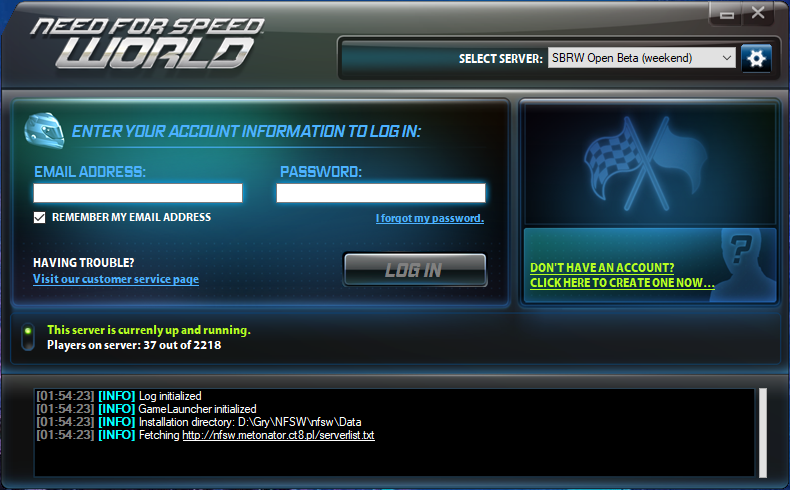
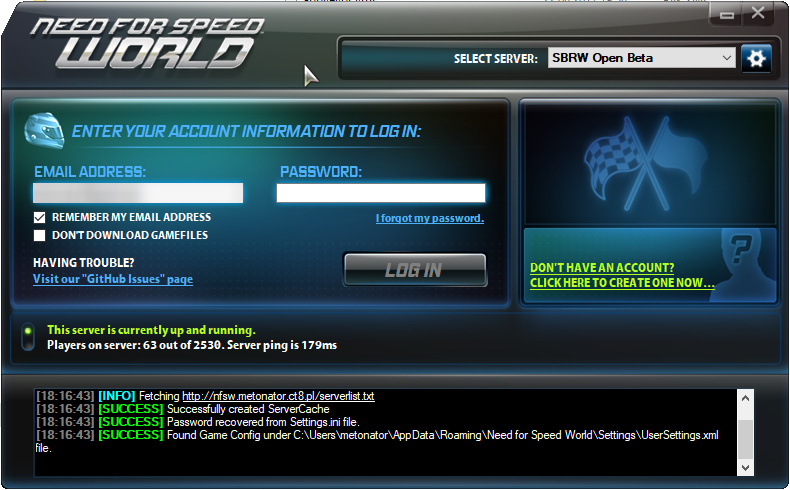
Fixed various JIT issues

diff --git a/GameLauncher/App/Form1.cs b/GameLauncher/App/Form1.cs
@@ -18,6 +18,7 @@ using Microsoft.WindowsAPICodePack.Dialogs;
 using Newtonsoft.Json;
 using SoapBox.JsonScheme;
 using GameLauncher.App.Classes.Events;
+using GameLauncherReborn;
 
 namespace GameLauncher {
     public partial class mainScreen : Form {
@@ -114,6 +115,8 @@ namespace GameLauncher {
                 int PosX = Int32.Parse(SettingFile.Read("LauncherPosX"));
                 int PosY = Int32.Parse(SettingFile.Read("LauncherPosY"));
                 Location = new Point(PosX, PosY);
+            } else {
+                Self.centerScreen(this);
             }
 
             MaximizeBox = false;
@@ -175,7 +178,7 @@ namespace GameLauncher {
                 File.WriteAllText(file, "test");
                 File.Delete(file);
             } catch {
-                MessageBox.Show(null, "Looks like we don't have enough permission to write config here. Please launch GameLauncher.exe as Administrator", "GameLauncher", MessageBoxButtons.OK, MessageBoxIcon.Error);
+                Self.runAsAdmin();
                 Environment.Exit(Environment.ExitCode);
             }
 
@@ -592,29 +595,33 @@ namespace GameLauncher {
             XmlNode LoginTokenNode;
             XmlNode UserIdNode;
 
-            DescriptionNode = SBRW_XML.SelectSingleNode("LoginStatusVO/Description");
-            LoginTokenNode = SBRW_XML.SelectSingleNode("LoginStatusVO/LoginToken");
-            UserIdNode = SBRW_XML.SelectSingleNode("LoginStatusVO/UserId");
+            try {
+                DescriptionNode = SBRW_XML.SelectSingleNode("LoginStatusVO/Description");
+                LoginTokenNode = SBRW_XML.SelectSingleNode("LoginStatusVO/LoginToken");
+                UserIdNode = SBRW_XML.SelectSingleNode("LoginStatusVO/UserId");
 
-            if(String.IsNullOrEmpty(DescriptionNode.InnerText)) {
-                UserId = UserIdNode.InnerText;
-                LoginToken = LoginTokenNode.InnerText;
+                if(String.IsNullOrEmpty(DescriptionNode.InnerText)) {
+                    UserId = UserIdNode.InnerText;
+                    LoginToken = LoginTokenNode.InnerText;
 
-                this.BackgroundImage = Properties.Resources.playbg;
-                this.currentWindowInfo.Visible = false;
+                    this.BackgroundImage = Properties.Resources.playbg;
+                    this.currentWindowInfo.Visible = false;
 
-                if (builtinserver == false) {
-                    playLoggedInAs.Text = "LOGGED IN AS " + email.Text.ToUpper();
+                    if (builtinserver == false) {
+                        playLoggedInAs.Text = "LOGGED IN AS " + email.Text.ToUpper();
+                    } else {
+                        playLoggedInAs.Text = "LOGGED IN AS LOCALHOST";
+                    }
+
+                    LoginFormElements(false);
+                    DownloadFormElements(true);
+
+                    launchNFSW();
                 } else {
-                    playLoggedInAs.Text = "LOGGED IN AS LOCALHOST";
+                     ConsoleLog("Invalid username or password.", "error");
                 }
-
-                LoginFormElements(false);
-                DownloadFormElements(true);
-
-                launchNFSW();
-            } else {
-                 ConsoleLog("Invalid username or password.", "error");
+            } catch {
+                ConsoleLog("Failed to get token from server, probably is offline.", "error");
             }
         }
 
@@ -1131,7 +1138,12 @@ namespace GameLauncher {
             }
 
             this.playButton.Image = Properties.Resources.playButton_enable;
-            LaunchGame(UserId, LoginToken, serverIP);
+
+            try {
+                LaunchGame(UserId, LoginToken, serverIP);
+            } catch {
+                MessageBox.Show("Failed to launch game. Cannot find NFSW.exe");
+            }
 
             if (builtinserver == true) {
                 this.playProgressText.Text = "SOAPBOX SERVER LAUNCHED. WAITING FOR QUERIES";
@@ -1430,13 +1442,17 @@ namespace GameLauncher {
             XmlNode LoginTokenNode;
             XmlNode UserIdNode;
 
-            DescriptionNode = SBRW_XML.SelectSingleNode("LoginStatusVO/Description");
-            LoginTokenNode = SBRW_XML.SelectSingleNode("LoginStatusVO/LoginToken");
-            UserIdNode = SBRW_XML.SelectSingleNode("LoginStatusVO/UserId");
+            try {
+                DescriptionNode = SBRW_XML.SelectSingleNode("LoginStatusVO/Description");
+                LoginTokenNode = SBRW_XML.SelectSingleNode("LoginStatusVO/LoginToken");
+                UserIdNode = SBRW_XML.SelectSingleNode("LoginStatusVO/UserId");
 
-            if (String.IsNullOrEmpty(DescriptionNode.InnerText)) {
-                UserId = UserIdNode.InnerText;
-                LoginToken = LoginTokenNode.InnerText;
+                if (String.IsNullOrEmpty(DescriptionNode.InnerText)) {
+                    UserId = UserIdNode.InnerText;
+                    LoginToken = LoginTokenNode.InnerText;
+                }
+            } catch {
+                MessageBox.Show("Failed to update token, server is probably offline.");
             }
         }
 

diff --git a/GameLauncher/App/Classes/Self.cs b/GameLauncher/App/Classes/Self.cs
@@ -1,0 +1,34 @@
+using System;
+using System.Collections.Generic;
+using System.Diagnostics;
+using System.Text;
+using System.Windows.Forms;
+
+namespace GameLauncherReborn {
+    class Self {
+        public static void runAsAdmin() {
+            string[] args = Environment.GetCommandLineArgs();
+
+            ProcessStartInfo processStartInfo = new ProcessStartInfo() {
+                Verb = "runas",
+                FileName = Application.ExecutablePath
+            };
+
+            if ((int)args.Length > 0) {
+                processStartInfo.Arguments = args[0];
+            }
+
+            try {
+                Process.Start(processStartInfo);
+            } catch (Exception exception1) {
+                MessageBox.Show("Failed to self-run as admin: " + exception1);
+            }
+        }
+
+        public static void centerScreen(Form form) {
+            form.StartPosition = FormStartPosition.Manual;
+            form.Top = (Screen.PrimaryScreen.Bounds.Height - form.Height) / 2;
+            form.Left = (Screen.PrimaryScreen.Bounds.Width - form.Width) / 2;
+        }
+    }
+}

diff --git a/GameLauncher/Properties/AssemblyInfo.cs b/GameLauncher/Properties/AssemblyInfo.cs
@@ -8,7 +8,7 @@ using System.Runtime.InteropServices;
 [assembly: AssemblyTitle("GameLauncher")]
 [assembly: AssemblyDescription("GameLauncher for Need For Speed(TM): World")]
 [assembly: AssemblyConfiguration("")]
-[assembly: AssemblyCompany("")]
+[assembly: AssemblyCompany("MeTonaTOR")]
 [assembly: AssemblyProduct("GameLauncher")]
 [assembly: AssemblyCopyright("OpenSource")]
 [assembly: AssemblyTrademark("")]
@@ -32,5 +32,5 @@ using System.Runtime.InteropServices;
 // Możesz określić wszystkie wartości lub użyć domyślnych numerów kompilacji i poprawki
 // przy użyciu symbolu „*”, tak jak pokazano poniżej:
 // [assembly: AssemblyVersion("1.0.*")]
-[assembly: AssemblyVersion("1.0.0.142")]
-[assembly: AssemblyFileVersion("1.0.0.142")]
+[assembly: AssemblyVersion("1.0.0.143")]
+[assembly: AssemblyFileVersion("1.0.0.143")]

diff --git a/README.md b/README.md
@@ -2,9 +2,9 @@
 A Rewrite of GameLauncher taken from Need For Speed: World
 
 ## Todo
-- [ ] Downloader?
+- [X] Downloader?
 - [ ] Validate files (sha1?)
-- [ ] Complete UI
+- [X] Complete UI
 - [X] Original fonts
 
 ### Screenshot
